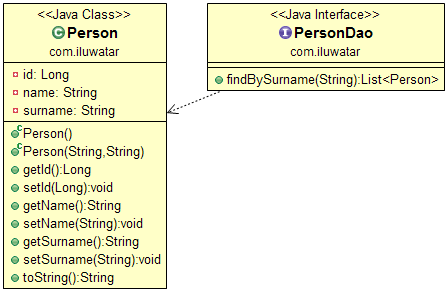
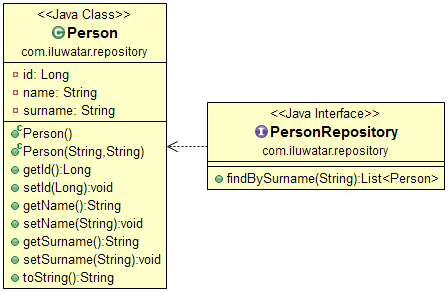
#216 Improve naming in Repository example

diff --git a/repository/src/main/java/com/iluwatar/repository/App.java b/repository/src/main/java/com/iluwatar/repository/App.java
@@ -24,39 +24,39 @@ public class App {
 	public static void main(String[] args) {
 		ClassPathXmlApplicationContext context = new ClassPathXmlApplicationContext(
 				"applicationContext.xml");
-		PersonDao dao = context.getBean(PersonDao.class);
+		PersonRepository repository = context.getBean(PersonRepository.class);
 
 		Person peter = new Person("Peter", "Sagan");
 		Person nasta = new Person("Nasta", "Kuzminova");
 
 		// Add new Person records
-		dao.save(peter);
-		dao.save(nasta);
+		repository.save(peter);
+		repository.save(nasta);
 
 		// Count Person records
-		System.out.println("Count Person records: " + dao.count());
+		System.out.println("Count Person records: " + repository.count());
 
 		// Print all records
-		List<Person> persons = (List<Person>) dao.findAll();
+		List<Person> persons = (List<Person>) repository.findAll();
 		for (Person person : persons) {
 			System.out.println(person);
 		}
 
 		// Find Person by surname
-		System.out.println("Find by surname 'Sagan': "	+ dao.findBySurname("Sagan"));
+		System.out.println("Find by surname 'Sagan': "	+ repository.findBySurname("Sagan"));
 
 		// Update Person
 		nasta.setName("Barbora");
 		nasta.setSurname("Spotakova");
-		dao.save(nasta);
+		repository.save(nasta);
 
-		System.out.println("Find by id 2: " + dao.findOne(2L));
+		System.out.println("Find by id 2: " + repository.findOne(2L));
 
 		// Remove record from Person
-		dao.delete(2L);
+		repository.delete(2L);
 
 		// And finally count records
-		System.out.println("Count Person records: " + dao.count());
+		System.out.println("Count Person records: " + repository.count());
 
 		context.close();
 	}

diff --git a/repository/src/main/java/com/iluwatar/repository/PersonRepository.java b/repository/src/main/java/com/iluwatar/repository/PersonRepository.java
@@ -11,7 +11,7 @@ import org.springframework.stereotype.Repository;
  *
  */
 @Repository
-public interface PersonDao extends CrudRepository<Person, Long> {
+public interface PersonRepository extends CrudRepository<Person, Long> {
 	
 	public List<Person> findBySurname(String surname);
 }
